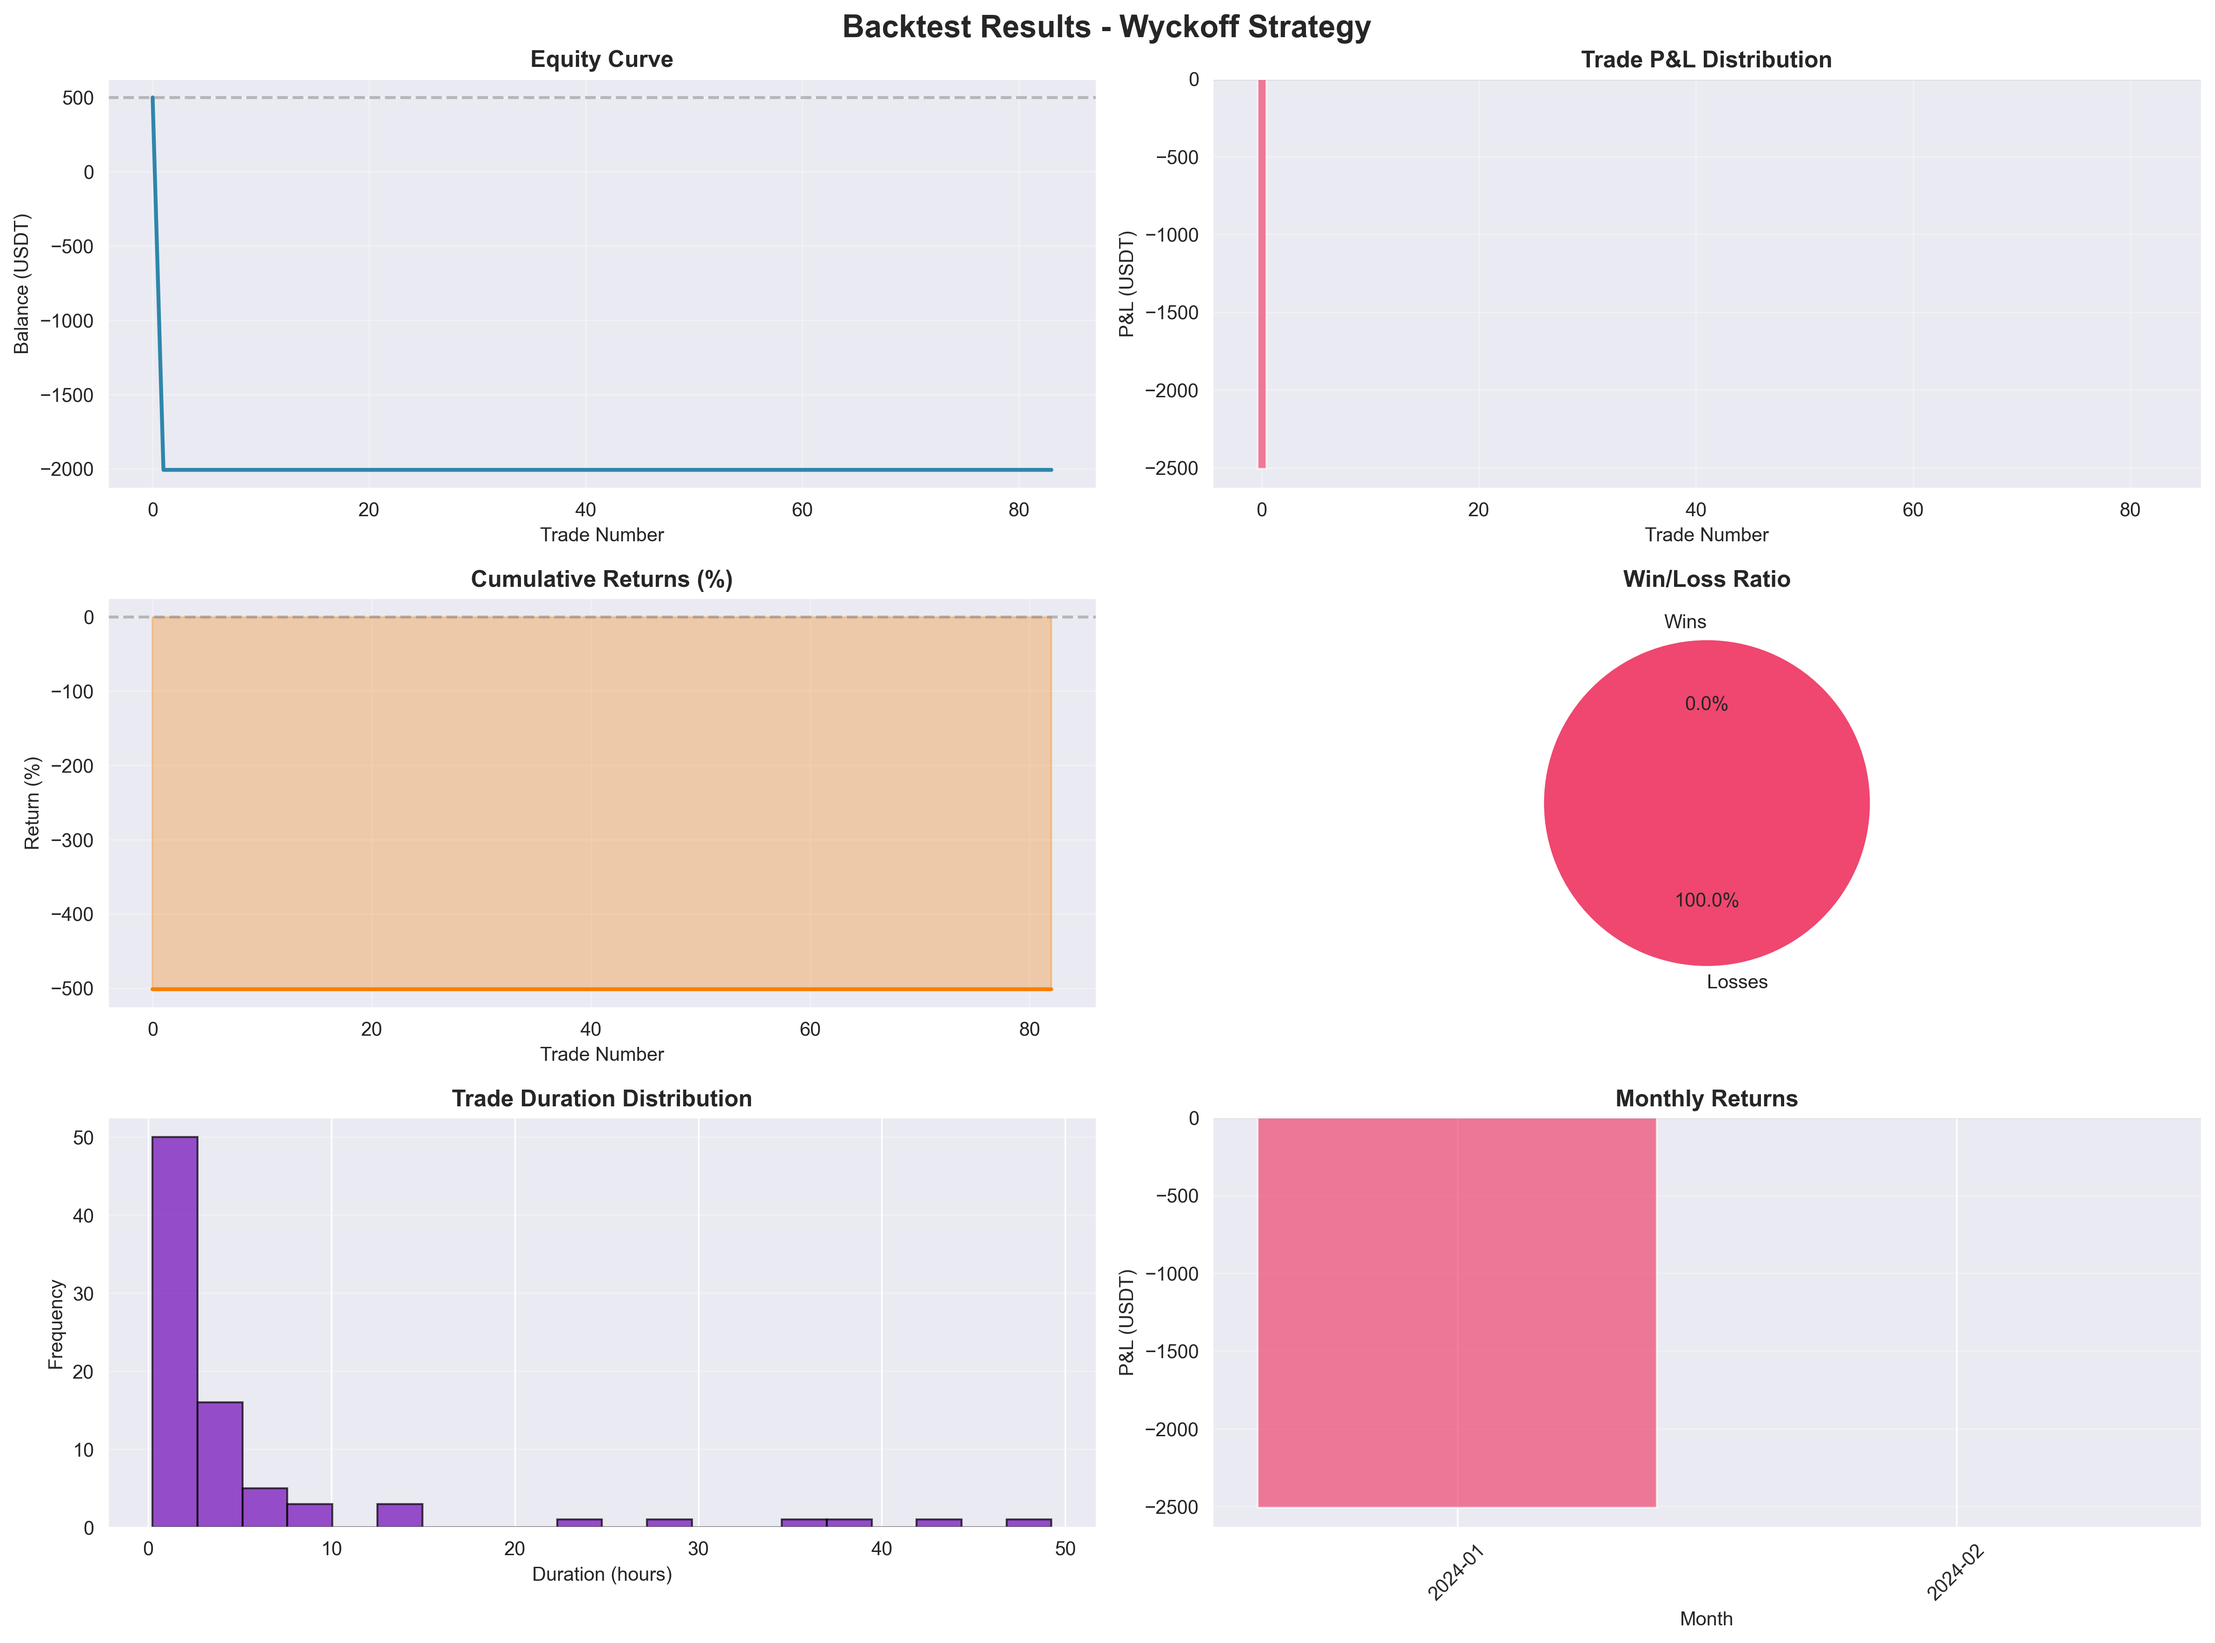
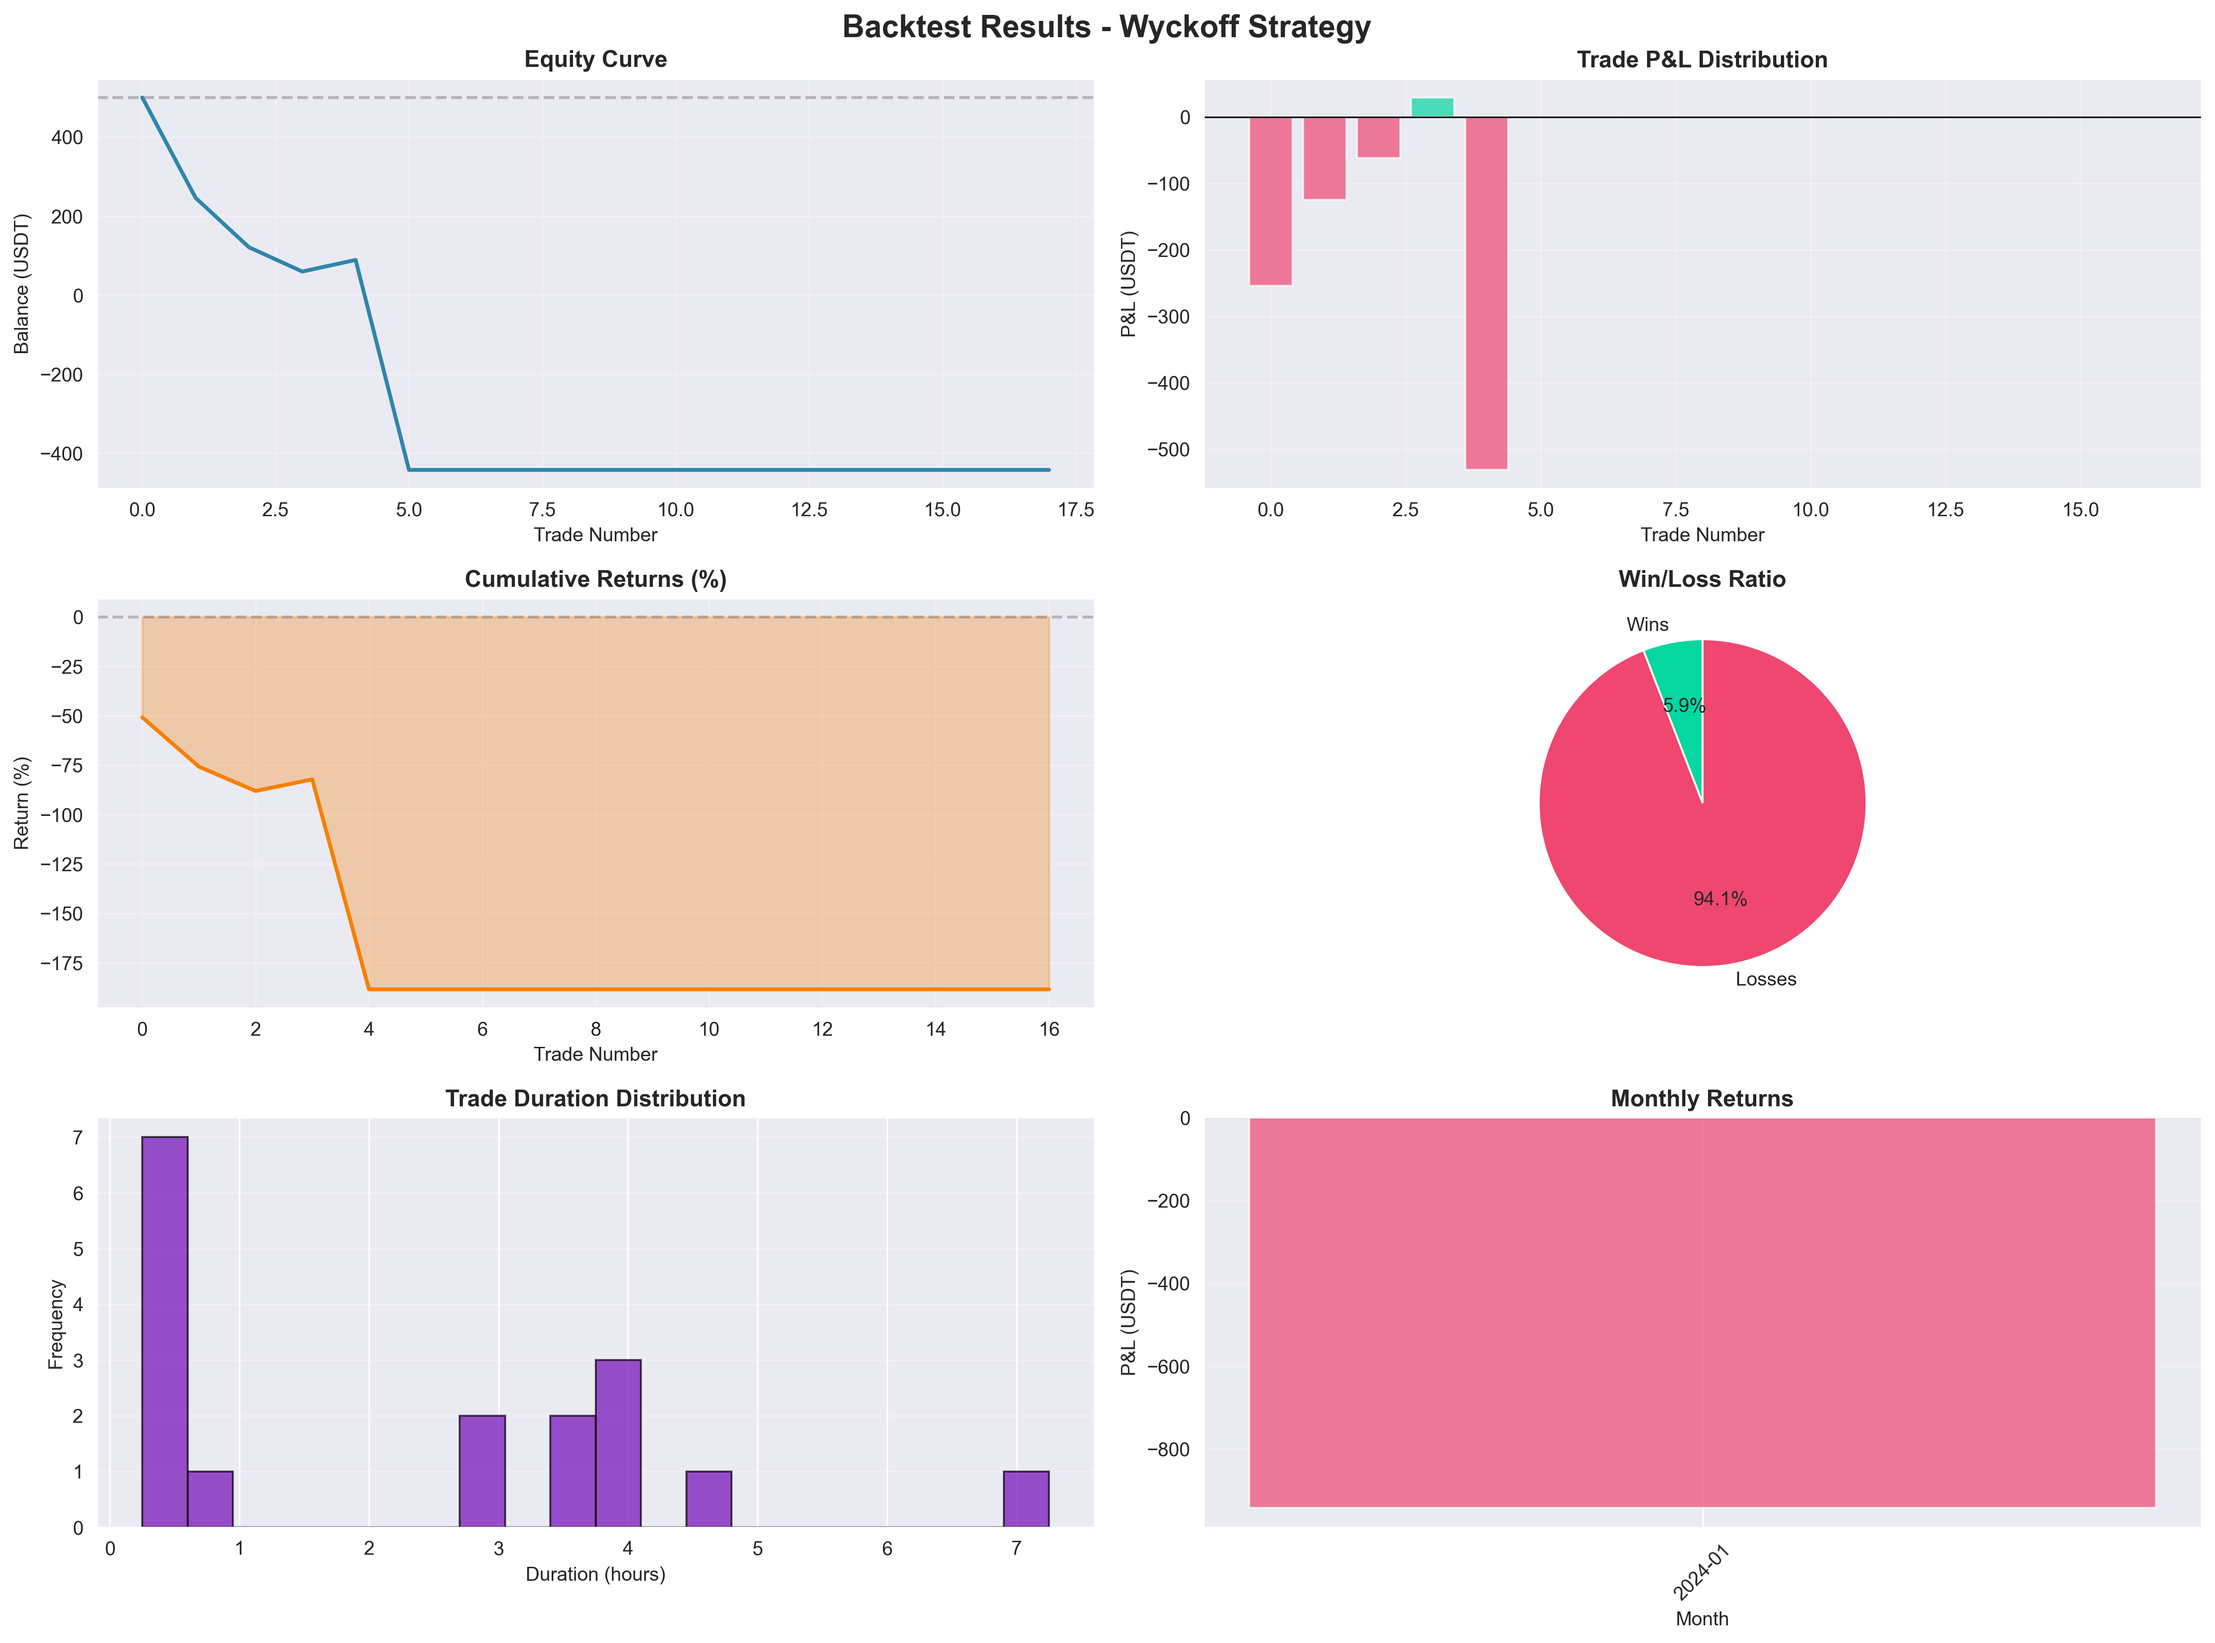
Bug SL/TP invertido - investigación en progreso

diff --git a/backtest_wyckoff.py b/backtest_wyckoff.py
@@ -97,6 +97,18 @@ class BacktestEngine:
             logger.warning("Position already open, skipping new signal")
             return
         
+        # 🔍 VALIDAR SL/TP ANTES DE ABRIR
+        if side.upper() == 'LONG':
+            if stop_loss >= entry_price:
+                logger.error(f"🚨 BUG: LONG SL={stop_loss:.2f} >= entry={entry_price:.2f}")
+                stop_loss, take_profit = take_profit, stop_loss
+                logger.warning(f"   → SWAP: SL={stop_loss:.2f}, TP={take_profit:.2f}")
+        elif side.upper() == 'SHORT':
+            if stop_loss <= entry_price:
+                logger.error(f"🚨 BUG: SHORT SL={stop_loss:.2f} <= entry={entry_price:.2f}")
+                stop_loss, take_profit = take_profit, stop_loss
+                logger.warning(f"   → SWAP: SL={stop_loss:.2f}, TP={take_profit:.2f}")
+        
         quantity, leverage = self.calculate_position_size(entry_price, stop_loss)
         position_value = quantity * entry_price
         
@@ -143,20 +155,24 @@ class BacktestEngine:
             if low <= pos['stop_loss']:
                 exit_price = pos['stop_loss']
                 exit_reason = 'stop_loss'
+                logger.debug(f"LONG SL hit: low={low:.2f} <= SL={pos['stop_loss']:.2f}")
             # Check take profit
             elif high >= pos['take_profit']:
                 exit_price = pos['take_profit']
                 exit_reason = 'take_profit'
+                logger.debug(f"LONG TP hit: high={high:.2f} >= TP={pos['take_profit']:.2f}")
         
         else:  # SHORT
             # Check stop loss
             if high >= pos['stop_loss']:
                 exit_price = pos['stop_loss']
                 exit_reason = 'stop_loss'
+                logger.debug(f"SHORT SL hit: high={high:.2f} >= SL={pos['stop_loss']:.2f}")
             # Check take profit
             elif low <= pos['take_profit']:
                 exit_price = pos['take_profit']
                 exit_reason = 'take_profit'
+                logger.debug(f"SHORT TP hit: low={low:.2f} <= TP={pos['take_profit']:.2f}")
         
         if exit_price:
             self.close_position(
